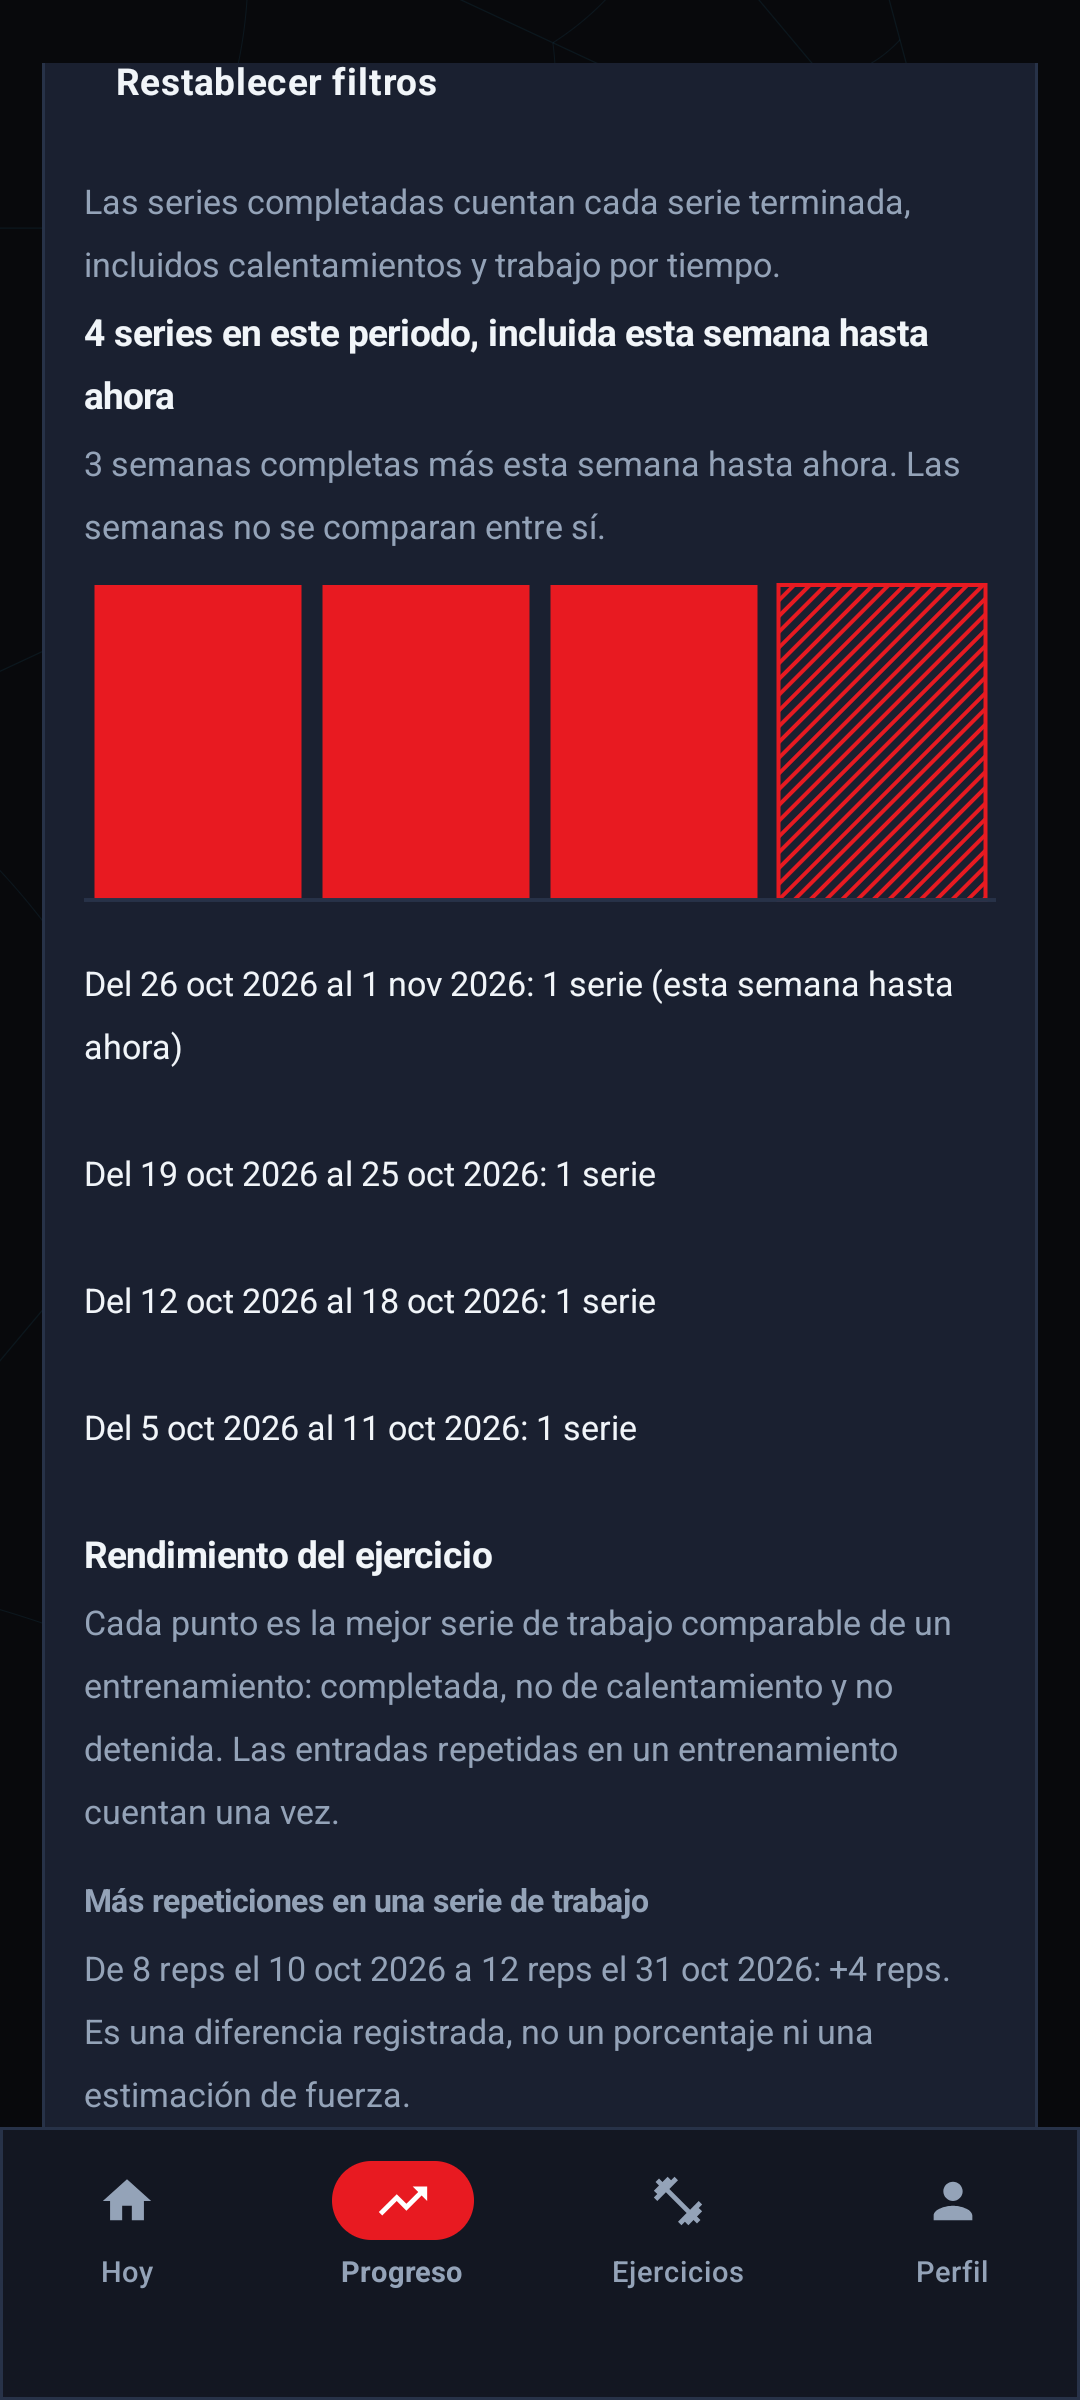
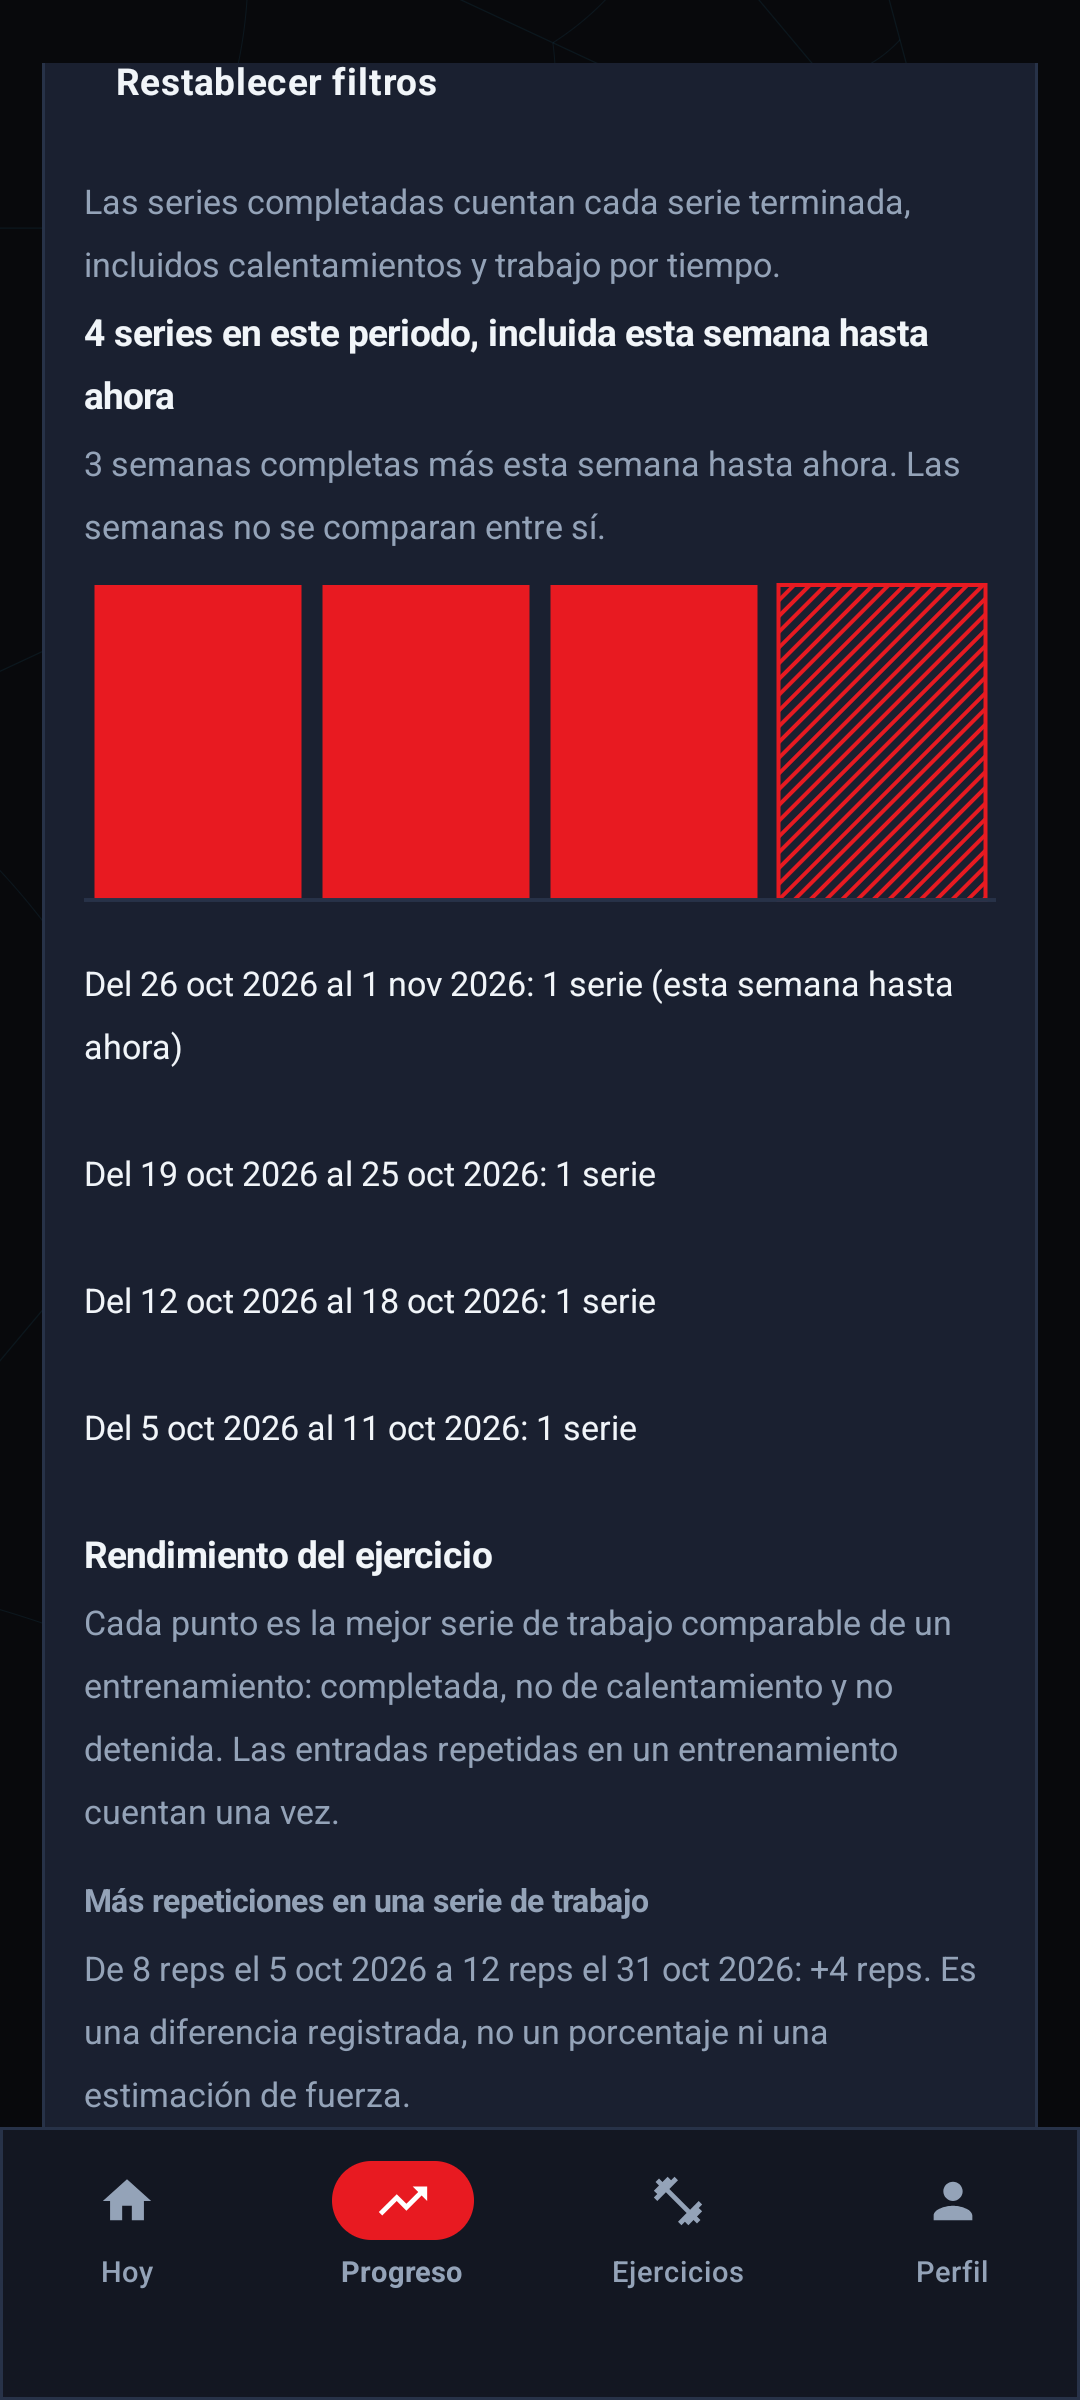
fix(progress): address final round-10 findings
Each week's sessions also pass through the existing ledger so its per-week
bounds apply; screenshots are recaptured from the current tests; status and
README wording claim only the drill-downs that exist.

Changed region(s): [[0.0917, 0.8125, 0.8861, 0.875]]

diff --git a/app/src/main/java/wallcrawl/elopenmike/com/core/progress/ProgressAnalyticsCalculator.kt b/app/src/main/java/wallcrawl/elopenmike/com/core/progress/ProgressAnalyticsCalculator.kt
@@ -68,6 +68,12 @@ class ProgressAnalyticsCalculator(
         // One row per (week, session): what it contributes to each metric, or null when it is
         // not a member of that metric's scope.
         val rows = weeks.map { week ->
+            // The whole week once, so the existing ledger's per-week bounds apply exactly as they do
+            // to the weekly card; the per-session calls below give each contributor its share.
+            ledgerCalculator.calculate(
+                byWeek[week].orEmpty().map { it.restrictedTo(scope) },
+                exercisesById, LedgerPolicyVersion.PRIMARY_ONLY_V1, week, catalogVersion, reviewPolicyVersion
+            )
             byWeek[week].orEmpty().sortedWith(compareBy({ it.completedAtTimestamp }, { it.id })).map { session ->
                 val completed = session.exercises
                     .filter { it.inScope(scope, exercisesById) }
@@ -78,9 +84,7 @@ class ProgressAnalyticsCalculator(
                         .sumOf { exercise -> exercise.sets.count { it.isCompleted } }
                 }
                 val ledger = ledgerCalculator.calculate(
-                    listOf(if (scope is AnalyticsScope.Exercise) {
-                        session.copy(exercises = session.exercises.filter { it.exerciseId == scope.exerciseId })
-                    } else session),
+                    listOf(session.restrictedTo(scope)),
                     exercisesById, LedgerPolicyVersion.PRIMARY_ONLY_V1, week, catalogVersion, reviewPolicyVersion
                 )
                 ledger.unattributedWorkSets.forEach { (reason, count) -> unattributed.merge(reason, count, Int::plus) }
@@ -140,6 +144,11 @@ class ProgressAnalyticsCalculator(
     private fun WorkoutSet.hasRecordedExternalLoad(): Boolean =
         exerciseType == ExerciseType.WEIGHT_REPS && loggedReps() > 0 &&
             completedWeight?.let { it.isFinite() && it >= 0.0 } == true
+
+    /** Exercise scope credits only that exercise's sets; other scopes read the whole session. */
+    private fun WorkoutSession.restrictedTo(scope: AnalyticsScope): WorkoutSession =
+        if (scope is AnalyticsScope.Exercise) copy(exercises = exercises.filter { it.exerciseId == scope.exerciseId })
+        else this
 
     private fun WorkoutExercise.inScope(scope: AnalyticsScope, exercisesById: Map<String, Exercise>): Boolean =
         when (scope) {

diff --git a/app/src/test/java/wallcrawl/elopenmike/com/core/progress/ProgressAnalyticsCalculatorTest.kt b/app/src/test/java/wallcrawl/elopenmike/com/core/progress/ProgressAnalyticsCalculatorTest.kt
@@ -277,6 +277,13 @@ class ProgressAnalyticsCalculatorTest {
     }
 
     @Test
+    fun aWeekBeyondTheExistingLedgerBoundsFailsLikeTheWeeklyLedgerDoes() {
+        // The weekly ledger refuses more than 1,000 sessions in one week; analytics must not show a value for it.
+        val crowded = (0..1_000).map { session("s$it", THIS_WEEK + it) }
+        assertThrows(IllegalArgumentException::class.java) { calculateAll(crowded) }
+    }
+
+    @Test
     fun aCompletionLaterThisWeekThanTheClockStillCountsLikeWeeklyActivity() {
         val skewed = session("skewed", ms("2026-09-05T09:00:00Z"))
         assertThat(calculate(listOf(skewed)).buckets.last().value).isEqualTo(1.0)

diff --git a/ROADMAP.md b/ROADMAP.md
@@ -62,7 +62,7 @@ model downloads, model-driven features, a network connection, or a companion dev
 | Onboarding and profile | Shipped as an eight-step flow with seven movement-capability questions, plus export, restore, and delete-all controls | Restore requires a fresh start, so it cannot merge into an installation that already holds data |
 | Templates and logging | Shipped with frozen template snapshots, type-aware outcomes, RPE/RIR, typed stops, a local rest timer, complete type-aware template editing, unit-safe template loads, and draft recovery across configuration change and background process death | Drafts do not survive force-stop, task removal, reboot or uninstall, by design; legacy unitless loads need a one-time unit confirmation |
 | Localization | English and neutral Latin American Spanish shipped across the whole interface, the 302-exercise catalog, generated workout text, and accessibility labels, selectable from onboarding and Profile through Android's per-app language mechanism | Only two languages; historical session text stays in the language it was written in, by design |
-| Progress and history | Calendar-week activity, separately labelled reviewed primary dose, records/trends, one completion-summary flow, paged completed history, read-only snapshot detail, and a filterable 4–52-week Over time card whose every value opens the workouts behind it | Substitution-specific detail awaits Package 10; no genuinely human-`APPROVED` metadata exists |
+| Progress and history | Calendar-week activity, separately labelled reviewed primary dose, records/trends, one completion-summary flow, paged completed history, read-only snapshot detail, and a filterable 4–52-week Over time card whose week rows list the workouts behind each week and whose observations open their workout; range-wide omission counts are not linked | Substitution-specific detail awaits Package 10; no genuinely human-`APPROVED` metadata exists |
 | Deterministic coach | Reviewed eligibility/ranking, weekly ledger, state guidance and whole-program validation; Packages 9 and 12 add single-axis progression, persistent user-controlled deload and optional completion-driven programs in the production composition | Genuine human `APPROVED` review remains independent; substitutions remain future work |
 | Planner evaluation | Versioned persona corpus (`planner-fixtures/manifest.txt` is the authoritative roster), with the reviewed-enabled personas' weeks replayed through the real ledger and every successful persona's proposal validated as a complete program, importer unit tests, real pinned-upstream regeneration check, JVM tests, and Android CI shipped | None for this package; reviewed-planner enablement (package 7) is done, and human-approval rollout (package 3) is the remaining gate |
 | Health Connect and Wear OS | Not started; only `:app` exists | Shared modules, privacy controls, validation, substitutions, protocol, and device evidence |

diff --git a/README.md b/README.md
@@ -61,7 +61,7 @@ WallCrawl supports **Dark Theme** (stealth suit graphite aesthetic), **Light The
 - **Exercise Library**: Searchable catalog of 302 exercises across all muscle groups and equipment types.
 - **Active Workout Session**: Type-aware logging for load/reps, bodyweight reps, assisted reps, duration, and distance/duration, with one-tap set completion, plus/minus and text entry for every value, a local rest countdown, optional RPE/RIR, animated SVG movement previews, and previous performance comparisons.
 - **Workout Summary**: The existing Finish flow shows recorded duration, external-load volume, completed sets, and records against genuinely earlier performance. View workout details opens the read-only record; Done returns to Progress.
-- **Progress Tracking & History**: Calendar-week activity and separately labelled reviewed dose, weekly streaks, and strength trends, plus an Over time card that charts 4–52 calendar weeks for all exercises, one exercise or one muscle, with rows that open the workouts behind each value. Tap a completed-workout card to reopen its frozen targets, performed sets, feedback and recorded decision reasons. View all workouts browses older sessions in fixed 20-workout pages.
+- **Progress Tracking & History**: Calendar-week activity and separately labelled reviewed dose, weekly streaks, and strength trends, plus an Over time card that charts 4–52 calendar weeks for all exercises, one exercise or one muscle, whose week rows list the workouts behind each week and whose data points open their workout. Tap a completed-workout card to reopen its frozen targets, performed sets, feedback and recorded decision reasons. View all workouts browses older sessions in fixed 20-workout pages.
 - **Training Profile & App Preferences**: Full local customization of app language (System default / English / Español) and theme preference (Auto System / Dark Mode / Light Mode) with compact switchers, multi-select fitness goals, preferred weight units (LBS/KG), session duration targets, available gym equipment, return-after-break calibration, muscle priorities, and seven movement preferences.
 - **Your Data**: Export everything stored on the device to one versioned, checksummed file you choose the destination for; restore it onto a fresh start; or delete every local record behind an explicit destructive confirmation. Restore is also offered on the first onboarding step — a quiet button under Continue opens the whole flow in a sheet — so a reinstall does not have to build a throwaway profile first.
 - **Language**: English and neutral Latin American Spanish across the whole app, following the device by default, switchable from a chip in the onboarding wizard's header before any details are entered and from Training Profile → App preferences, and stored as a device setting rather than as part of the profile or the export archive.
